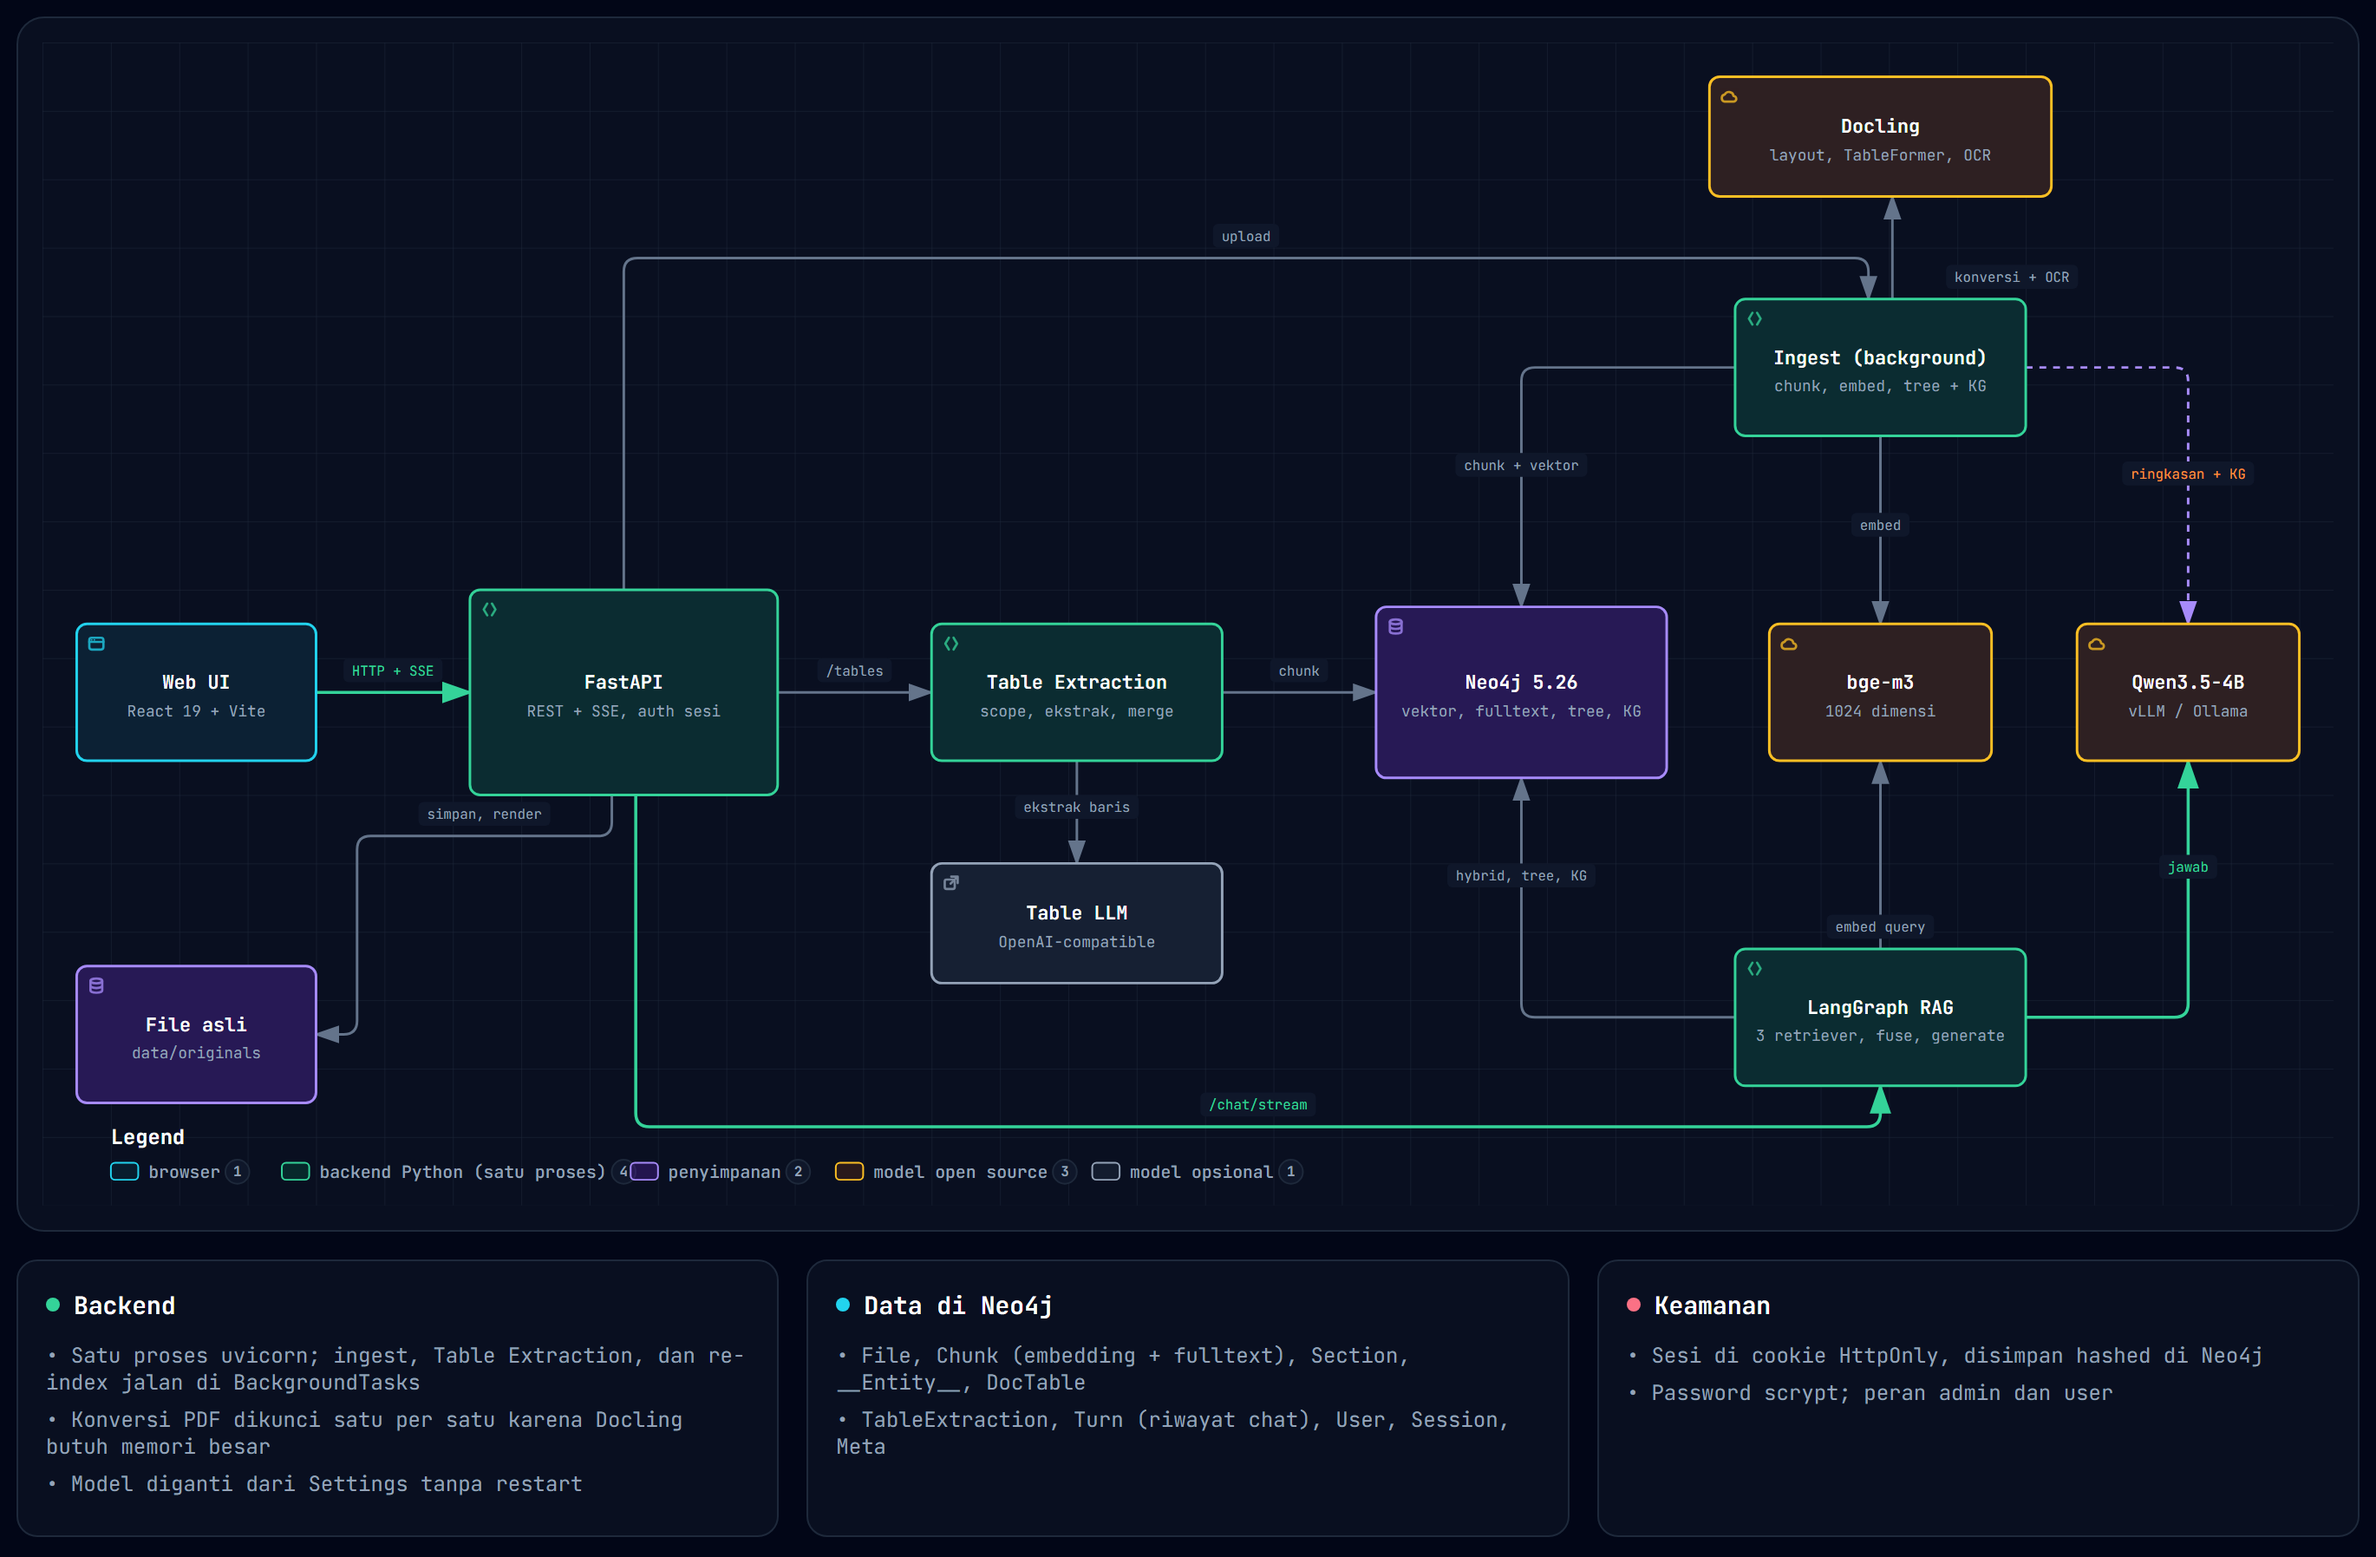
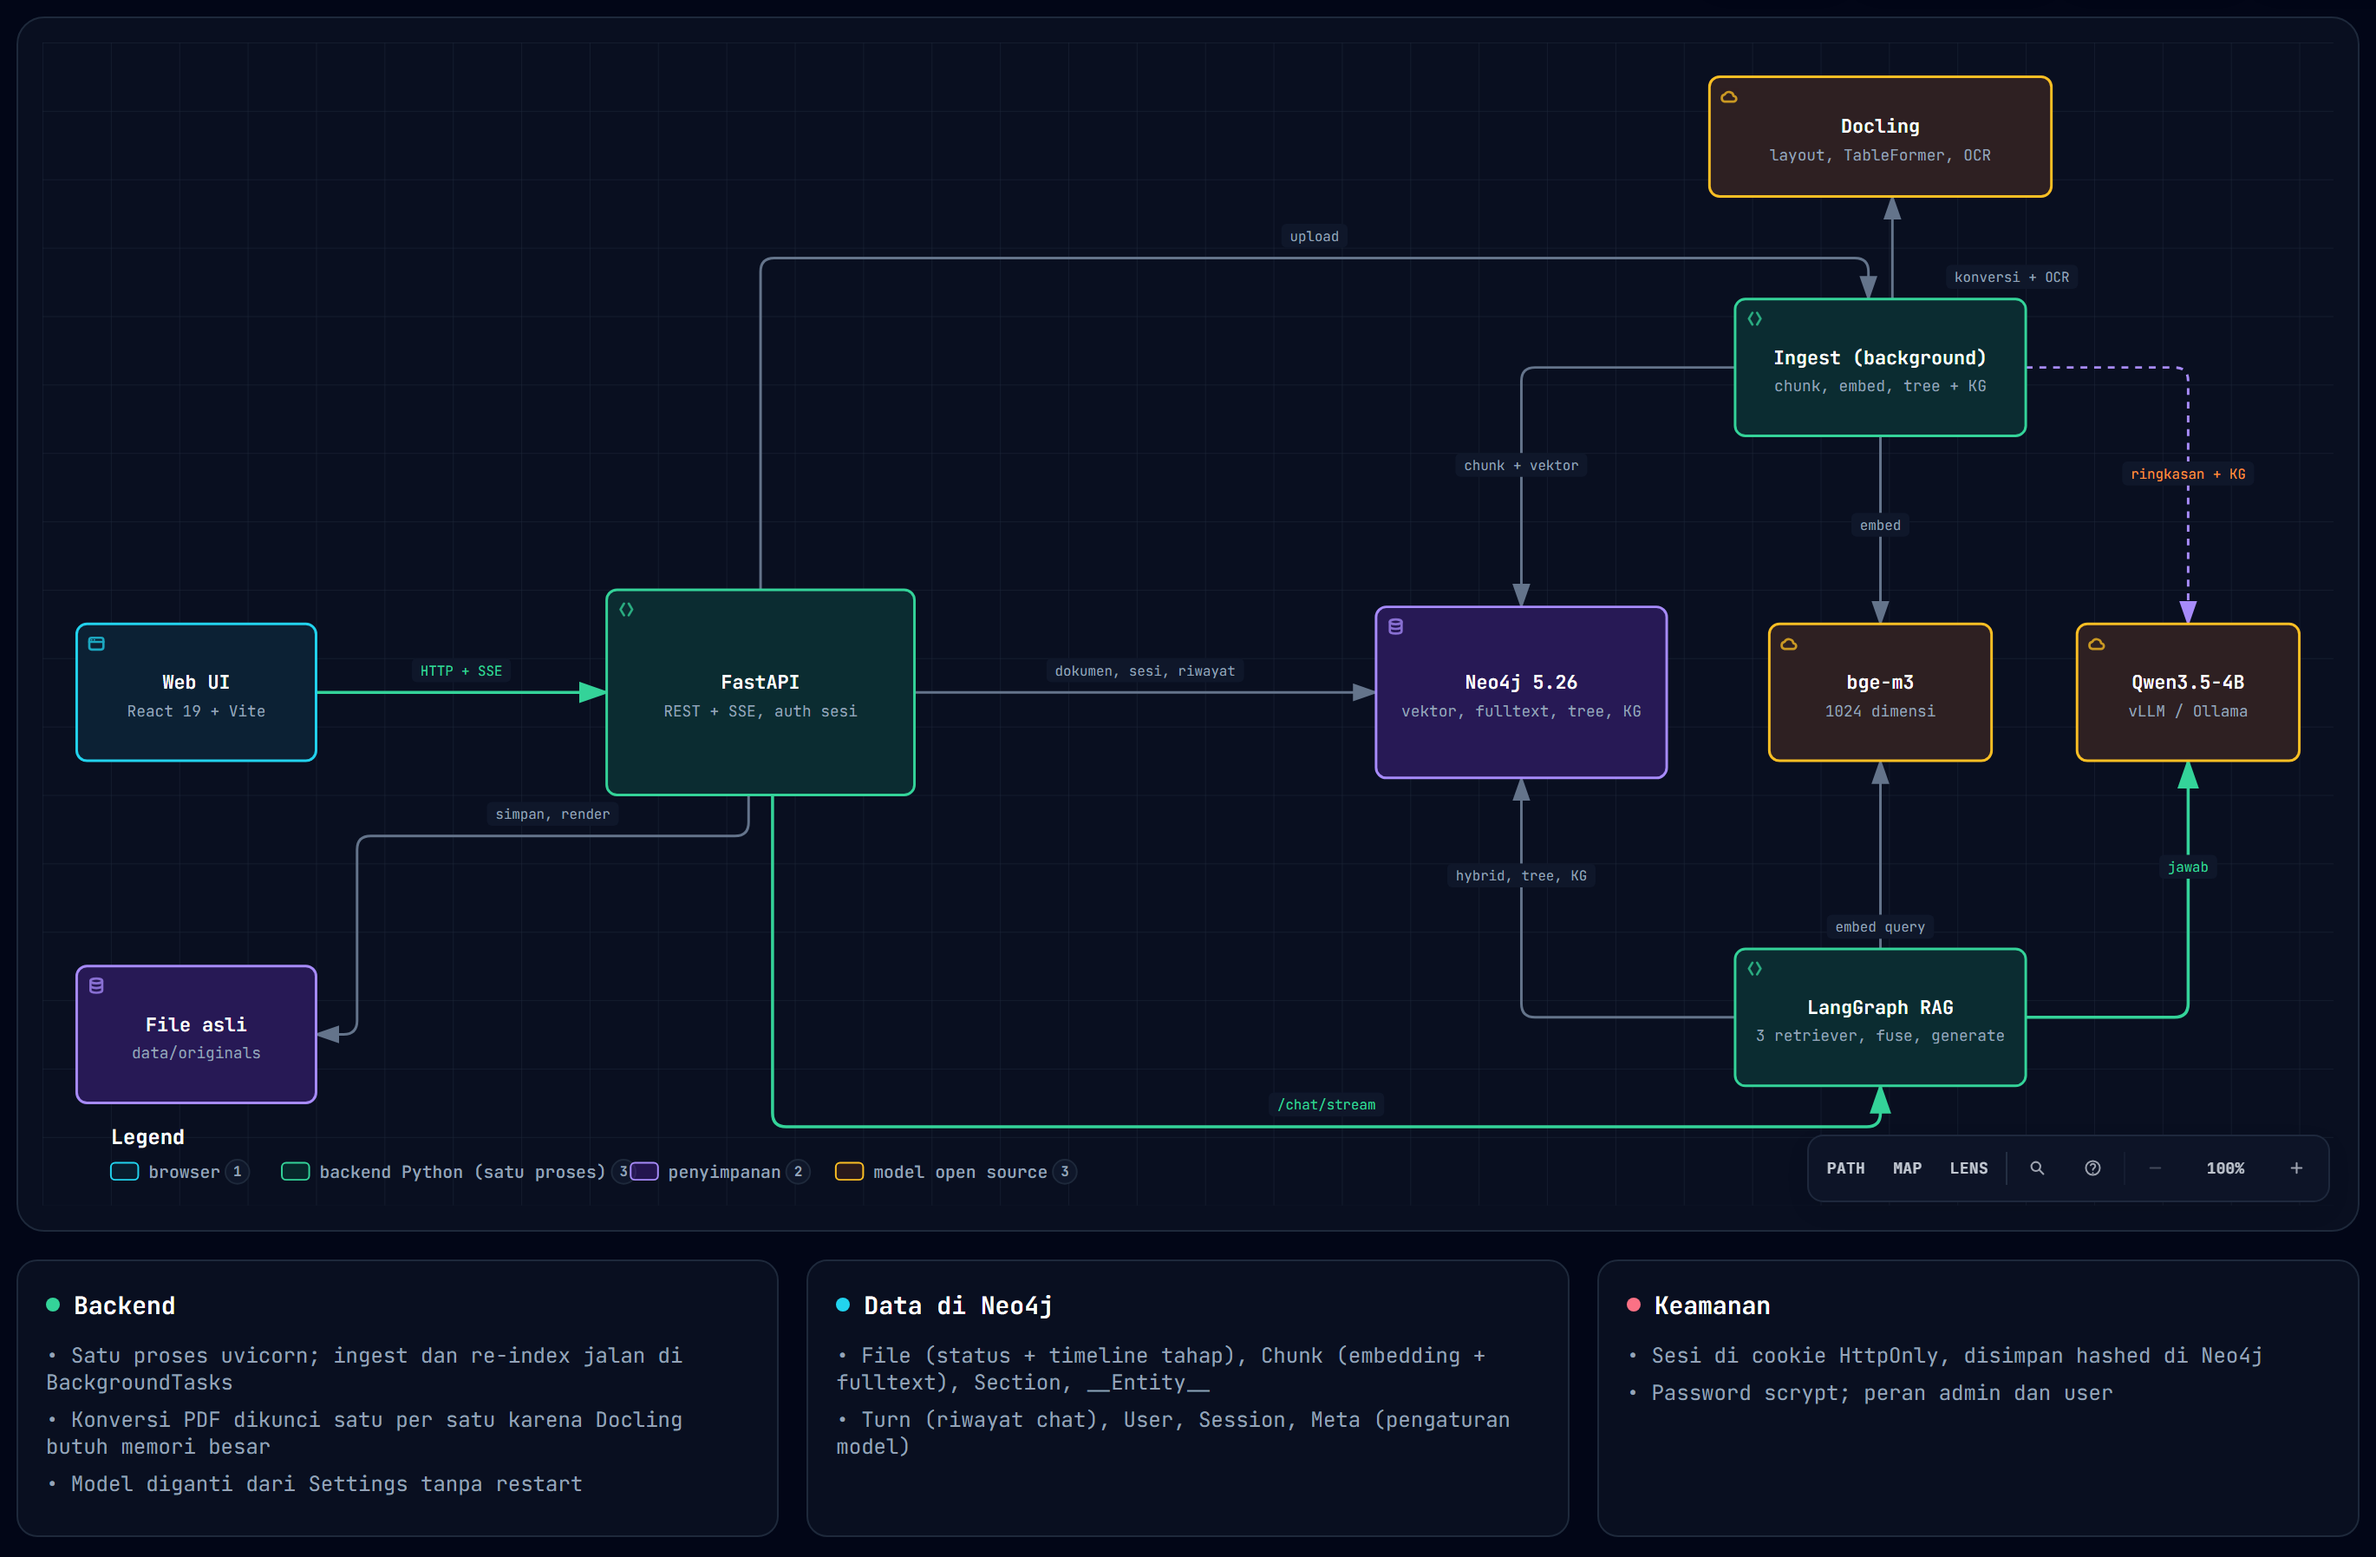
docs: redraw the architecture without Table Extraction and fix the README auth limit
The system diagram drops the Table Extraction and Table LLM nodes removed in 9a504da and shows FastAPI reading Neo4j directly. The README no longer claims there is no auth; it says documents are shared by every account and there is no login rate limit.

diff --git a/README.md b/README.md
@@ -82,8 +82,10 @@ npx tsc -b && npm run lint && npm run build
   has to be re-uploaded.
 - **One PDF converts at a time.** Docling peaks at ~14 GB per 25-page batch, so a second
   upload stays `queued` until the first finishes converting.
-- **No auth.** Every document is readable and deletable by anyone who can reach the
-  API. Fine on localhost; don't bind `--host 0.0.0.0` without adding auth first.
+- **Documents are shared by every account.** Login is required, but any signed-in user can
+  read and delete every document; the admin role only gates Settings and Users. There is
+  no login rate limit, so keep it on a trusted network rather than binding `--host 0.0.0.0`
+  on the open internet.
 - Ingest throughput is roughly 10-20 seconds per PDF page end to end (Docling
   conversion is most of that); `MAX_UPLOAD_MB` and `MAX_PAGES` in `backend/.env`
   bound how long an upload can make someone wait.
